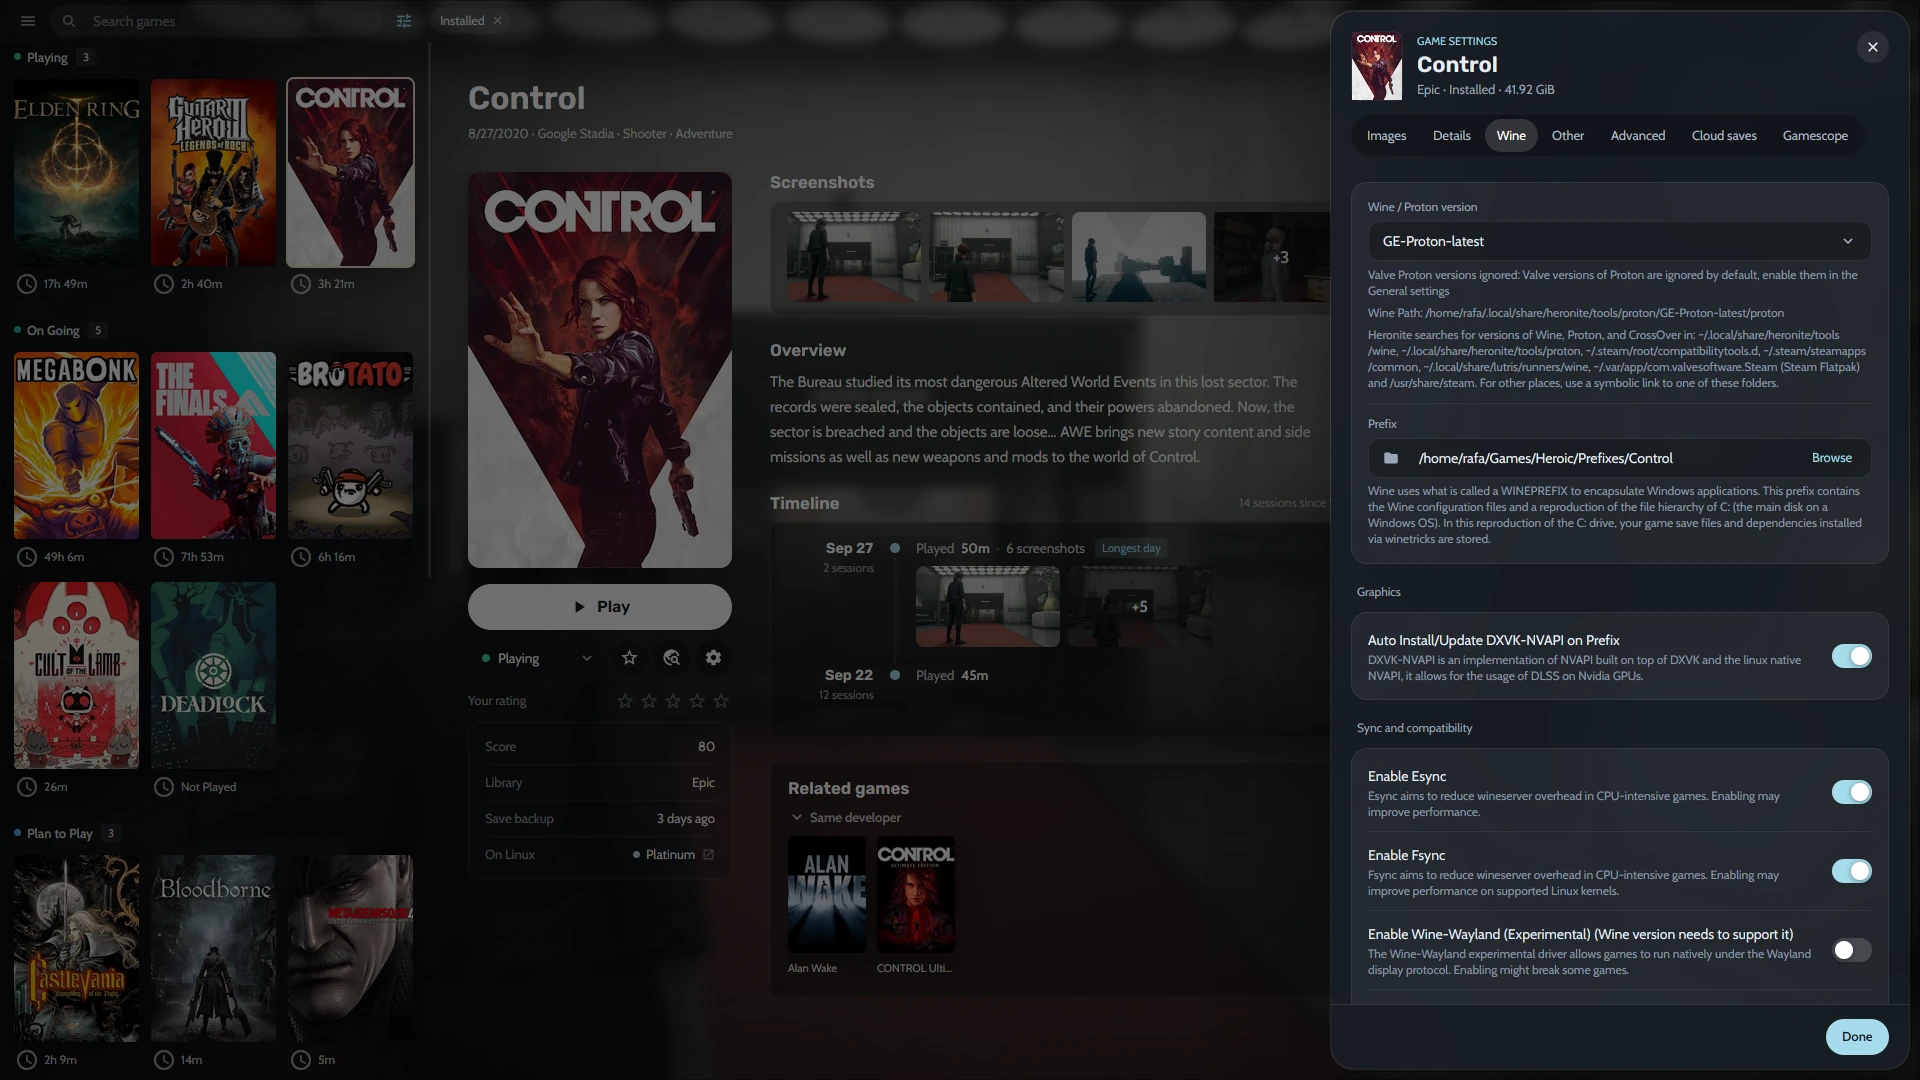
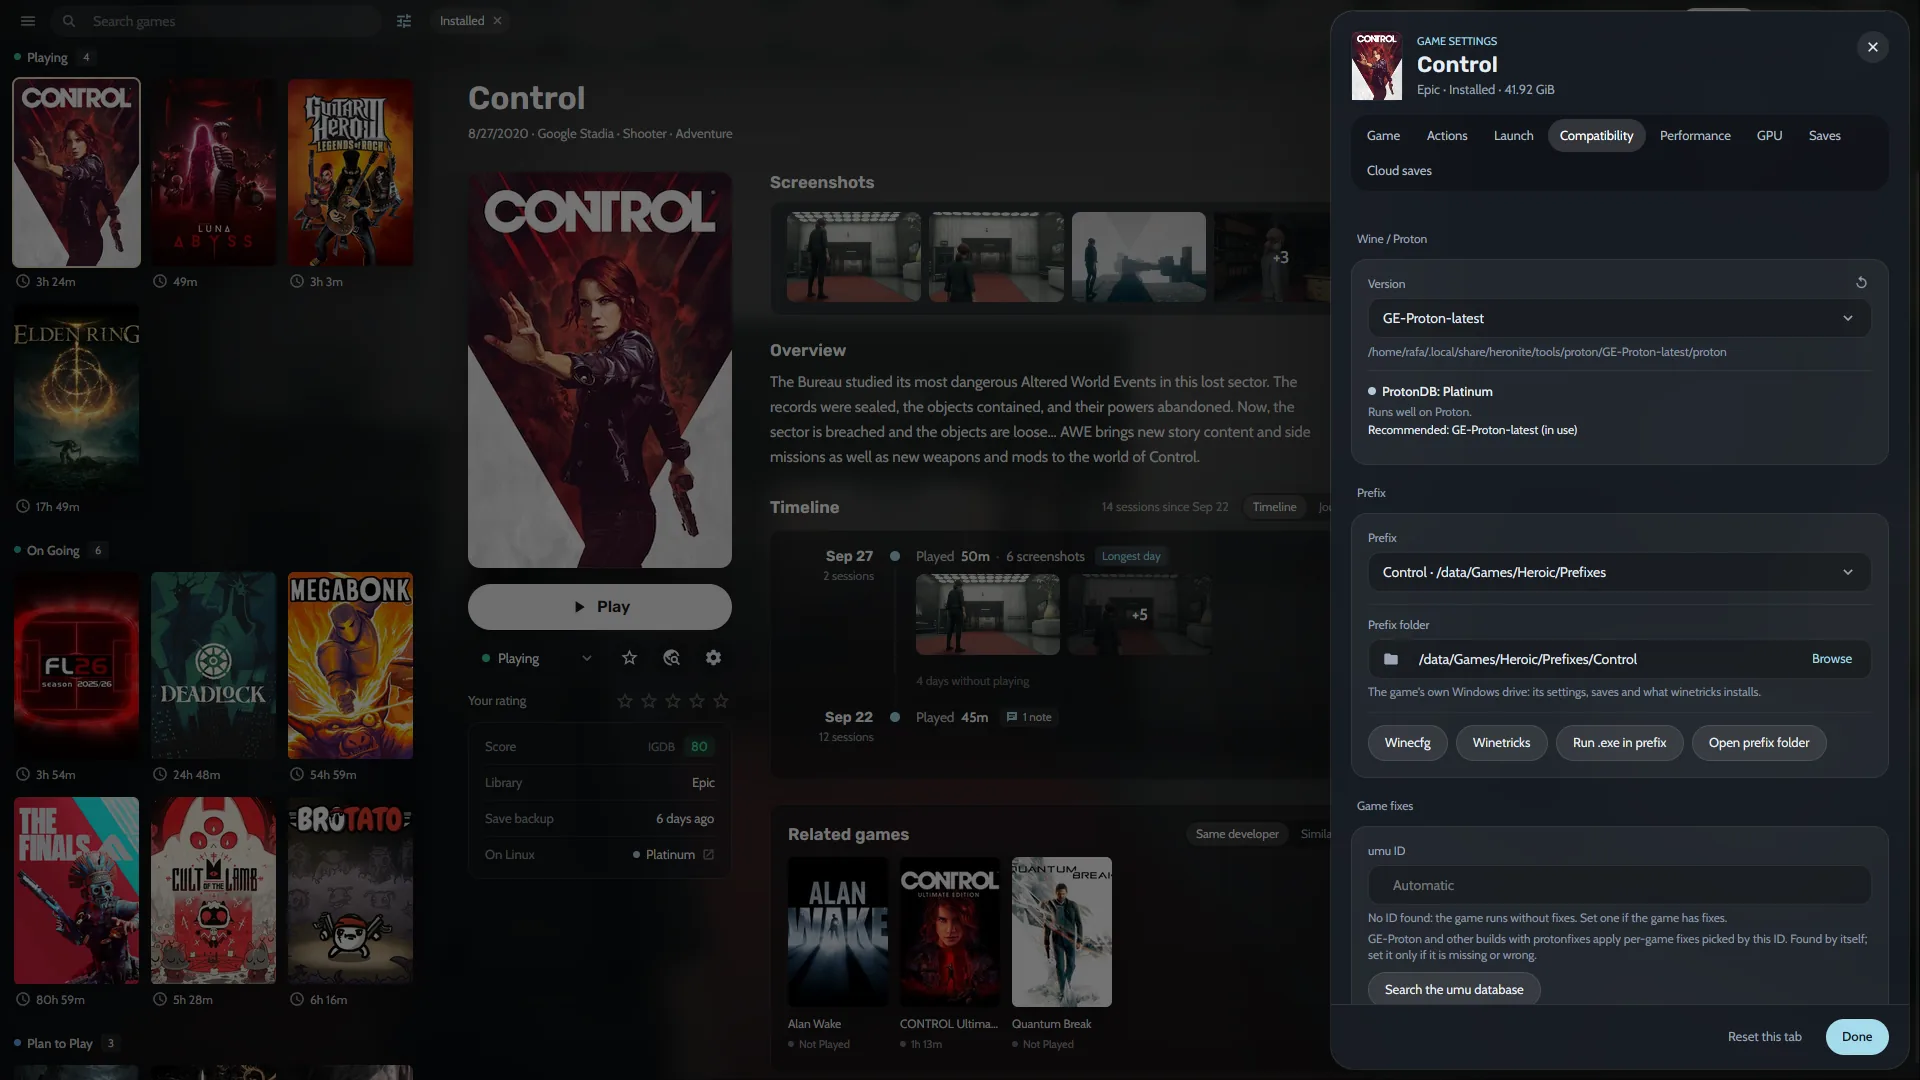
docs: update README

diff --git a/README.md b/README.md
@@ -30,68 +30,80 @@ Heronite puts your Steam, Epic Games, GOG, Amazon Games, emulated, native Linux,
 
 ## Your library, organized
 
-- **Collection:** every game in a list or a grid of covers, grouped by status, store, genre, series, year and more. The details panel shows screenshots, How Long To Beat, ProtonDB and anti-cheat status, achievements, and a play timeline that doubles as a journal.
+- **Collection:** every game in a list with a details panel (Focus) or a grid of covers, switching by the window's width. Group by status, store, genre, series, year and more; drag the panels wider. The details panel shows screenshots, How Long To Beat, ProtonDB and anti-cheat status, achievements, related games, and a play timeline.
+- **Journal:** notes on the days you played and on your screenshots, plus where you left off.
 - **View menu:** filter, sort, and save the view as a preset (Playing now, Backlog, Finished, and Favourites built in). Search forgives accents and typos.
 - **Bulk edits:** change status, categories, and other fields of many games at once, with undo. A fields manager renames and merges genres, companies, and series.
 - **Command palette:** <kbd>Ctrl</kbd> <kbd>K</kbd> jumps to any page, runs any action, or finds and plays a game.
-- **Add any game:** native Linux programs, Windows programs, browser games, or ROMs from a folder. Art comes from Steam, SteamGridDB, IGDB, Lutris, the web, or your own screenshots.
+- **Add any game:** native Linux programs, Windows programs, browser games, install scripts, or ROMs from a folder. Art comes from Steam, SteamGridDB, IGDB, Lutris, the web, or your own screenshots.
+- **Getting started:** on first run, Heronite finds your Steam library, emulators, and ROM folders, and a checklist walks you through the rest.
 
 <table>
   <tr>
-    <td width="50%" align="center"><a href="assets/screenshots/collection.webp"><img src="assets/screenshots/collection.webp" width="100%" alt="Collection with games grouped by status and ELDEN RING selected, showing screenshots, overview, How Long To Beat times, details, and the play timeline over the game's art" /></a><br /><sub><b>Collection</b></sub></td>
+    <td width="50%" align="center"><a href="assets/screenshots/collection.webp"><img src="assets/screenshots/collection.webp" width="100%" alt="Collection in Focus view with ELDEN RING selected, showing screenshots, overview, details, and the play timeline over the game's art" /></a><br /><sub><b>Collection</b></sub></td>
     <td width="50%" align="center"><a href="assets/screenshots/command-palette.webp"><img src="assets/screenshots/command-palette.webp" width="100%" alt="Command palette searching for 'contr', listing matching games and the play, settings, and open folder actions for Control" /></a><br /><sub><b>Command palette</b></sub></td>
   </tr>
 </table>
 
 ## Install, configure, and play
 
-- **Stores:** Steam (no login needed), Epic Games, GOG, and Amazon Games. Install, update, repair, move, import, and uninstall through one download queue, with cloud saves and DLC where the store supports them.
-- **Wine and Proton:** per-game Wine version, prefix, DXVK-NVAPI, Esync/Fsync, gamescope, FPS limit, DLSS/FSR/XeSS upgrades, Winetricks, protonfixes via umu, and Lossless Scaling frame generation (lsfg-vk).
+- **Stores:** Steam (no login needed), Epic Games, GOG, and Amazon Games, with EA app and Ubisoft Connect games started through their apps. One download queue to install, update, repair, move, import, and uninstall; it pauses while offline and retries failed downloads.
+- **Wine and Proton:** per-game Wine version, prefix, DXVK-NVAPI, Esync/Fsync, gamescope, FPS limit, GPU choice, DLSS/FSR/XeSS upgrades, Winetricks, protonfixes via umu, and Lossless Scaling frame generation (lsfg-vk).
+- **Launching:** see each step of a launch and cancel it, run scripts before and after the game or programs alongside it, and add your own actions next to Play.
 - **Wine Manager:** download and update Proton-CachyOS, GE-Proton, DW-Proton, UMU-Proton, Proton-EM, and Proton-Sarek, and manage Wine prefixes.
 - **Emulators:** detect installed emulators or add your own with RetroArch cores, scan ROM folders, and continue from save states.
+- **In-game overlay (beta):** press the controller's Guide button (or a shortcut) for a panel over the game with volume, microphone, FPS limit, screenshots, and journal notes. Guide + Y marks a moment to write about later.
 
 <table>
   <tr>
-    <td width="50%" align="center"><a href="assets/screenshots/game-settings.webp"><img src="assets/screenshots/game-settings.webp" width="100%" alt="Game settings drawer for Control on the Wine tab, with the Proton version, prefix, DXVK-NVAPI, Esync, Fsync, and Winecfg and Winetricks buttons" /></a><br /><sub><b>Game settings</b></sub></td>
+    <td width="50%" align="center"><a href="assets/screenshots/game-settings.webp"><img src="assets/screenshots/game-settings.webp" width="100%" alt="Game settings for Control on the Compatibility tab, with the Proton version, prefix, Winecfg and Winetricks buttons, and the umu game fixes" /></a><br /><sub><b>Game settings</b></sub></td>
     <td width="50%" align="center"><a href="assets/screenshots/wine-manager.webp"><img src="assets/screenshots/wine-manager.webp" width="100%" alt="Wine Manager listing Proton-CachyOS builds with release dates, sizes, and install buttons" /></a><br /><sub><b>Wine Manager</b></sub></td>
   </tr>
 </table>
 
 ## Look back at what you played
 
-- **Statistics:** play time by week, month, year, or all time, with charts, records, a yearly backlog goal, timelines of each game, and an album of your screenshots.
+- **Statistics:** play time by week, month, year, or all time, in five tabs: **Overview** (charts, top games, records), **Journeys** (each game as a lane in time), **Backlog** (a yearly goal of games to beat and a plan for the rest), **Discoveries** (the period told in sentences, with milestones), and **Album** (your screenshots as moments). Any game opens a sheet with its own numbers.
 - **Year in review:** your year told as full-screen stories, with a summary card to share.
-- **Sessions and screenshots:** every launch is recorded, and in-game screenshots are matched to the game and its timeline.
+- **Sessions:** every launch is recorded, in-game screenshots are matched to the game, and sessions can be edited by hand.
 
 <table>
   <tr>
-    <td width="50%" align="center"><a href="assets/screenshots/statistics.webp"><img src="assets/screenshots/statistics.webp" width="100%" alt="Statistics for October 2026 with total time played, a day-by-day chart per game, and the top eight games" /></a><br /><sub><b>Statistics</b></sub></td>
+    <td width="50%" align="center"><a href="assets/screenshots/statistics.webp"><img src="assets/screenshots/statistics.webp" width="100%" alt="Statistics Overview for October 2026 with total time played, cards for the other tabs, and a day-by-day chart per game" /></a><br /><sub><b>Overview</b></sub></td>
     <td width="50%" align="center"><a href="assets/screenshots/year-in-review.webp"><img src="assets/screenshots/year-in-review.webp" width="100%" alt="Year in review intro story: Your 2026 in games, with days, games, and sessions next to a wall of covers" /></a><br /><sub><b>Year in review</b></sub></td>
+  </tr>
+  <tr>
+    <td width="50%" align="center"><a href="assets/screenshots/stats-backlog.webp"><img src="assets/screenshots/stats-backlog.webp" width="100%" alt="Backlog tab for 2026 with 9 games beaten, the yearly goal ring, and the beaten games along the year" /></a><br /><sub><b>Backlog</b></sub></td>
   </tr>
 </table>
 
 ## Console mode
 
-A controller-first layout for the couch or a TV that covers the whole app, with an on-screen keyboard. Turn it on from the palette, the ☰ menu, or with `--console`.
+A controller-first layout for the couch or a TV that covers the whole app, with an on-screen keyboard and a Power menu to suspend or shut down. Turn it on from the palette, the ☰ menu, or with `--console`.
 
 <table>
   <tr>
-    <td width="50%" align="center"><a href="assets/screenshots/console-home.webp"><img src="assets/screenshots/console-home.webp" width="100%" alt="Console home with ELDEN RING large over its art and a Continue playing shelf of covers" /></a><br /><sub><b>Home</b></sub></td>
+    <td width="50%" align="center"><a href="assets/screenshots/console-home.webp"><img src="assets/screenshots/console-home.webp" width="100%" alt="Console home with SP Football Life 2026 large over its art and a Continue playing shelf of covers" /></a><br /><sub><b>Home</b></sub></td>
     <td width="50%" align="center"><a href="assets/screenshots/console-game.webp"><img src="assets/screenshots/console-game.webp" width="100%" alt="Console game page for ELDEN RING with Play, Status, Favourite, Game settings, Playtime, and Ludusavi backup rows next to its details" /></a><br /><sub><b>Game page</b></sub></td>
   </tr>
 </table>
 
 ## Make it yours
 
-- **Appearance:** tune the game art behind the Collection, pick glass or solid panels, and choose the cover aspect ratio.
-- **Backups:** back up saves with Ludusavi after each session, restore them into any prefix, and schedule backups of your Collection and settings.
+- **Appearance:** profiles, an accent colour (or the game's), high contrast, fonts, density, cover style, a background picture or slideshow behind the Collection, and which sections the details panel shows.
+- **Language:** English and Portuguese (Brazil), switched live.
+- **Saves and backups:** back up saves with Ludusavi after each session and restore them into any prefix. Scheduled, incremental backups of your Collection, play history, settings, and art.
 - **Storage:** see what your games take on each disk and clean up leftovers in one click.
 - **Startup:** start with the system, launch games via `heronite://launch` links or `--launch`.
 
 <table>
   <tr>
-    <td width="50%" align="center"><a href="assets/screenshots/appearance.webp"><img src="assets/screenshots/appearance.webp" width="100%" alt="Appearance settings with a live preview of the Collection background, its sliders, glass panel options, and cover aspect" /></a><br /><sub><b>Appearance</b></sub></td>
-    <td width="50%" align="center"><a href="assets/screenshots/screenshots.webp"><img src="assets/screenshots/screenshots.webp" width="100%" alt="Screenshots settings with the capture folder and space used, lossless compression, the in-game capture shortcut, and the preview cache" /></a><br /><sub><b>Screenshots</b></sub></td>
+    <td width="50%" align="center"><a href="assets/screenshots/appearance.webp"><img src="assets/screenshots/appearance.webp" width="100%" alt="Appearance settings with profiles, accent colours, font and density, and a live preview of the Collection background" /></a><br /><sub><b>Appearance</b></sub></td>
+    <td width="50%" align="center"><a href="assets/screenshots/storage.webp"><img src="assets/screenshots/storage.webp" width="100%" alt="Storage settings with disk usage bars, space to free up, and a treemap of installed games by size" /></a><br /><sub><b>Storage</b></sub></td>
+  </tr>
+  <tr>
+    <td width="50%" align="center"><a href="assets/screenshots/backups.webp"><img src="assets/screenshots/backups.webp" width="100%" alt="Backups settings with the backup folder, schedule, what goes in a backup, and the last backup" /></a><br /><sub><b>Backups</b></sub></td>
+    <td width="50%" align="center"><a href="assets/screenshots/screenshots.webp"><img src="assets/screenshots/screenshots.webp" width="100%" alt="Screenshots settings with the capture folder and space used, lossless compression, the in-game capture shortcut, and controller capture" /></a><br /><sub><b>Screenshots</b></sub></td>
   </tr>
 </table>
 
